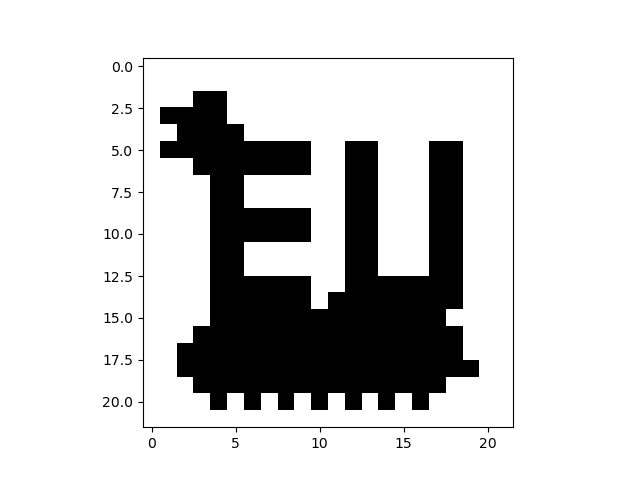
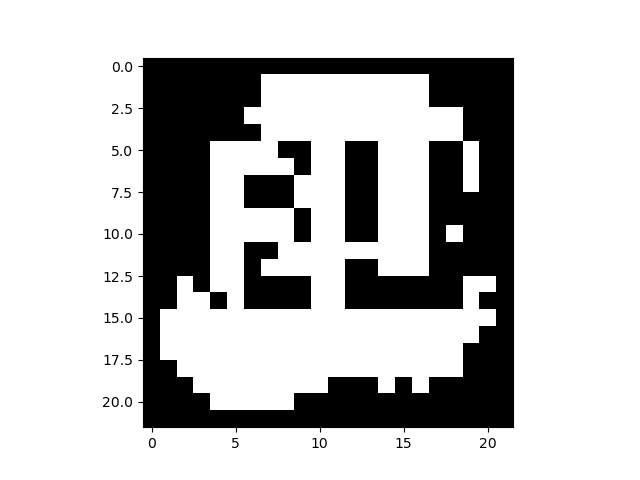
20x20 works

Changed region(s): [[0.2188, 0.125, 0.8125, 0.9062], [0.5312, 0.5, 0.5938, 0.5625]]

diff --git a/Image_Pixel_Generate.py b/Image_Pixel_Generate.py
@@ -12,7 +12,7 @@ import random
 
 image_size = 20*20
 rows, cols = (20,20)
-image_name ='testImg_20x20.png'
+image_name ='testImg_20x20_ZTY.png'
 
 def img2bin(row,col,name):
     convertedImg = np.zeros((row, col))
@@ -113,7 +113,7 @@ def H_sigma_cal(r,c,spin,J):
 
 
 def update_spin(H_sigma):
-    if H_sigma > 0:
+    if H_sigma >= 0:
         sigma = -1
     else:
         sigma = 1
@@ -129,7 +129,7 @@ def pad_zeros_2_list(thisArray,r,c):
 def Ising_start(this_spin,J,rows,cols,total_iteration,Ising_KPI):
     for i in range(total_iteration):
         Ising_energy = 0
-        # print('iteration = ' + str(i))
+        print('iteration = ' + str(i))
         next_spin = copy.deepcopy(this_spin)
         # print(thisSpinArray)
         for r in range(1,rows+1):
@@ -148,8 +148,8 @@ def Ising_start(this_spin,J,rows,cols,total_iteration,Ising_KPI):
         #     plt.savefig('Iter2.png')
         #     plt.show()
 
-        # print('next_spin')
-        # print(next_spin)
+        print('next_spin')
+        print(next_spin)
         # print('Ising_energy = ' + str(Ising_energy))
         Ising_KPI.append(Ising_energy)
         this_spin = next_spin
@@ -178,8 +178,8 @@ def annealing(this_spin,rows,cols):
     return this_spin,howmanyTrue
 
 
-def annealing_ver2(number_of_flip, this_spin, img_size):
-    random.seed(1)
+def annealing_ver2(seed,number_of_flip, this_spin, img_size):
+    random.seed(seed)
     this_random = random.sample(range(img_size), number_of_flip)
 
     for i in range(number_of_flip):
@@ -237,13 +237,16 @@ plt.imshow(this_spin, cmap='Greys_r')
 plt.show()
 
 # annealing
-next_spin = annealing_ver2(10,this_spin,image_size)
+next_spin = annealing_ver2(2,50,this_spin,image_size)
+plt.imshow(next_spin, cmap='Greys_r')
+plt.show()
+
 # print(next_spin)
 # start Ising
 this_spin,KPI = Ising_start(next_spin,J,rows,cols,10,Ising_KPI)
+print(this_spin)
 # plt.axis('off')
-plt.imshow(this_spin, cmap='Greys')
-plt.savefig('Iter20.png')
+plt.imshow(this_spin, cmap='Greys_r')
 plt.show()
 
 
@@ -257,16 +260,16 @@ plt.show()
 
 
 # show KPI
-figure(figsize=(6.5, 8), dpi=80)
-plt.plot(KPI,marker='o', color='b', linewidth=2)
-plt.xlabel("Spin Iteration",fontsize=16,fontweight='bold')
-plt.ylabel('Energy',fontsize=16,fontweight='bold')
-plt.xticks(np.arange(0,21,2),fontsize=16,fontweight='bold')
-plt.yticks(fontsize=16,fontweight='bold')
-plt.savefig('energy.png')
-plt.show()
-
-
+# figure(figsize=(6.5, 8), dpi=80)
+# plt.plot(KPI,marker='o', color='b', linewidth=2)
+# plt.xlabel("Spin Iteration",fontsize=16,fontweight='bold')
+# plt.ylabel('Energy',fontsize=16,fontweight='bold')
+# plt.xticks(np.arange(0,21,2),fontsize=16,fontweight='bold')
+# plt.yticks(fontsize=16,fontweight='bold')
+# plt.savefig('energy.png')
+# plt.show()
+#
+#
 
 
 
